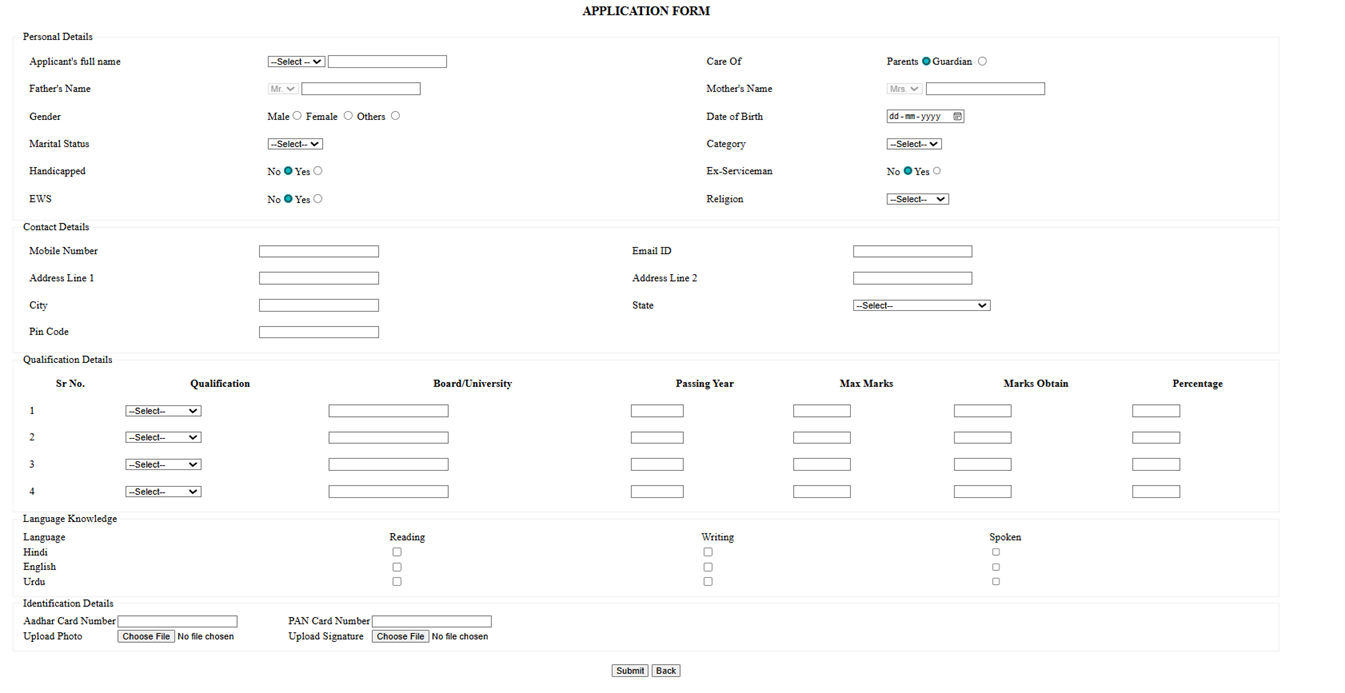
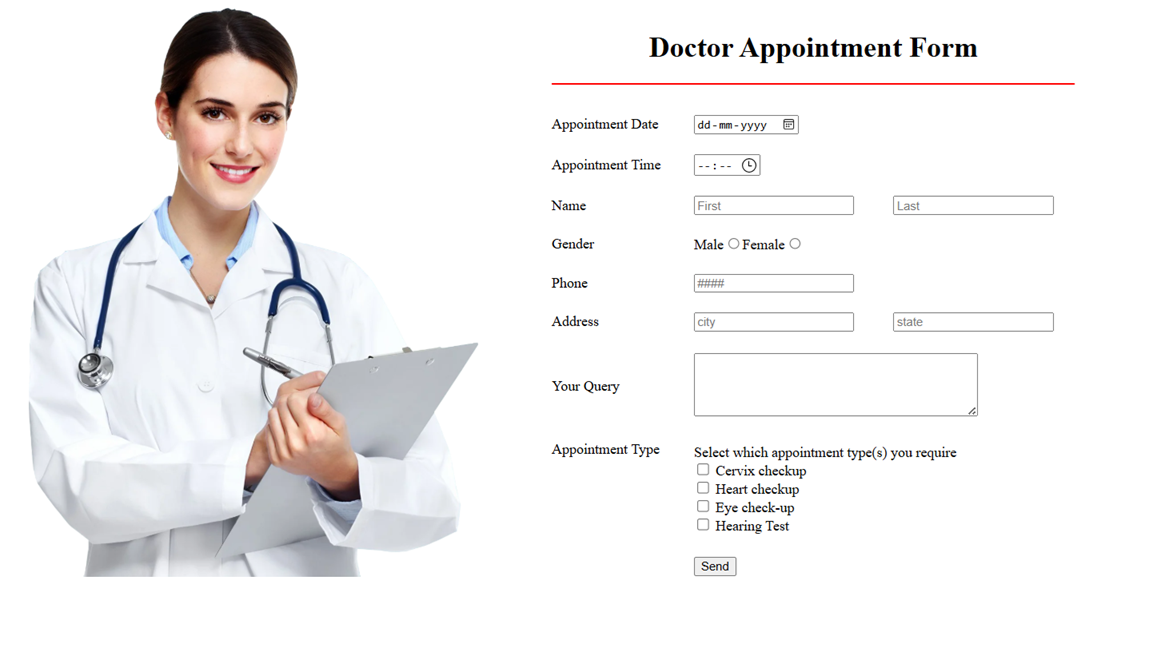
Class Activity MEAN

diff --git a/Sem 2/MEAN/act33/index.html b/Sem 2/MEAN/act33/index.html
@@ -1,0 +1,46 @@
+<html lang="en">
+<head>
+  <meta charset="UTF-8">
+  <meta name="viewport" content="width=device-width, initial-scale=1.0">
+  <title>Doctor Appoinment Form</title>
+</head>
+<body>
+  <form action="submit.php" method="post">
+    <h1>Doctor Appoinment Form</h1>
+    <label for="date">Appoinment Date:</label><br>
+    <input type="date" id="date" name="date" required><br><br>
+
+    <label for="time">Appoinment Time:</label><br>
+    <input type="time" id="time" name="time" required><br><br>
+
+    <label for="name">Name:</label><br>
+    <input type="text" id="name" name="name" placeholder="First Name" required>
+    <input type="text" name="lastname" id="lastname" placeholder="Last Name" required><br><br>
+
+    <label for="gender">Gender:</label><br>
+    <input type="radio" id="male" name="gender" value="male" required>
+    <label for="male">Male</label><br>
+    <input type="radio" id="female" name="gender" value="female" required>
+    <label for="female">Female</label><br><br>
+
+    <label for="address">Address:</label>
+    <input type="text" id="city" name="city" placeholder="City" required>
+    <input type="text" id="state" name="state" placeholder="State" required><br><br>
+
+    <label for="query">Query:</label><br>
+    <textarea id="query" name="query" placeholder="Enter your query here"></textarea><br><br>
+
+    <label for="type">Type of Appointment:      Select the type of appoinment</label><br>
+    <input type="checkbox" name="cc" id="cc">
+    <label for="cc">Cervix checkup</label><br>
+    <input type="checkbox" name="heart" id="heart">
+    <label for="heart">Heart checkup</label><br>
+    <input type="checkbox" name="eye" id="eye">
+    <label for="eye">Eye check-up</label><br>
+    <input type="checkbox" name="hearing" id="hearing">
+    <label for="hearing">Hearing Test</label><br><br>
+
+    <input type="submit" value="Submit">
+  </form>
+</body>
+</html>

diff --git a/Sem 2/MEAN/act32/index.html b/Sem 2/MEAN/act32/index.html
@@ -1,0 +1,65 @@
+<html lang="en">
+<head>
+  <meta charset="UTF-8">
+  <meta name="viewport" content="width=device-width, initial-scale=1.0">
+  <title>Time Table</title>
+  <style>
+    table{
+      text-align: center;
+    }
+  </style>
+</head>
+<body>
+  <center>
+    <h1>Class Time Table</h1>
+    <table border="1">
+      <tr>
+        <td>I<br>09:00 AM - 10:00 AM</td>
+        <td>II<br>10:00 AM - 11:00 AM</td>
+        <td>11:00 AM - 11:15 PM</td>
+        <td>III<br>11:15 PM - 12:15 PM</td>
+        <td>12:15 PM - 01:15 PM</td>
+        <td>IV<br>01:15 PM - 02:15 PM</td>
+        <td>V<br>02:15 PM - 03:15 PM</td>
+        <td>VI<br>03:15 PM - 03:30 PM</td>
+        <td>VII<br>03:30 PM - 04:30 PM</td>
+      </tr>
+      <tr>
+        <td>Monday</td>
+        <td>Eng</td>
+        <td rowspan="5">Interval</td>
+        <td>Mat</td>
+        <td rowspan="5">LUNCH</td>
+        <td>Che</td>
+        <td>LAB</td>
+        <td rowspan="5">Interval</td>
+        <td colspan="2">LAB</td>
+      </tr>
+      <tr>
+        <td>Wednesday</td>
+        <td>Mat</td>
+        <td>Phy</td>
+        <td>Eng</td>
+        <td>Che</td>
+        <td colspan="2">LIBRARY</td>
+      </tr>
+      <tr>
+        <td>Thursday</td>
+        <td>Phy</td>
+        <td>Eng</td>
+        <td>Che</td>
+        <td>LAB</td>
+        <td colspan="2">LAB</td>
+      </tr>
+      <tr>
+        <td>Friday</td>
+        <td>Phy</td>
+        <td>Eng</td>
+        <td>Che</td>
+        <td>LAB</td>
+        <td colspan="2">LAB</td>
+      </tr>
+    </table>
+  </center>
+</body>
+</html>

diff --git a/Sem 2/MEAN/activity/Activity Sheet - Full Stack Development with Python.html b/Sem 2/MEAN/activity/Activity Sheet - Full Stack Development with Python.html
@@ -48,6 +48,50 @@
           <td>9</td>
           <td>  <a href="a9.html">Activity-9</a></td>
         </tr>
+        <tr>
+          <td>10</td>
+          <td>  <a href="a10.html">Activity-10</a></td>
+        </tr>
+        <tr>
+          <td>11</td>
+          <td>  <a href="a11.html">Activity-11</a></td>
+        </tr>
+        <tr>
+          <td>12</td>
+          <td>  <a href="a12.html">Activity-12</a></td>
+        </tr>
+        <tr>
+          <td>13</td>
+          <td>  <a href="a13.html">Activity-13</a></td>
+        </tr>
+        <tr>
+          <td>14</td>
+          <td>  <a href="a14.html">Activity-14</a></td>
+        </tr>
+        <tr>
+          <td>15</td>
+          <td>  <a href="a15.html">Activity-15</a></td>
+        </tr>
+        <tr>
+          <td>16</td>
+          <td>  <a href="a16.html">Activity-16</a></td>
+        </tr>
+        <tr>
+          <td>17</td>
+          <td>  <a href="a17.html">Activity-17</a></td>
+        </tr>
+        <tr>
+          <td>18</td>
+          <td>  <a href="a18.html">Activity-18</a></td>
+        </tr>
+        <tr>
+          <td>19</td>
+          <td>  <a href="a19.html">Activity-19</a></td>
+        </tr>
+        <tr>
+          <td>20</td>
+          <td>  <a href="a20.html">Activity-20</a></td>
+        </tr>
       </table>
 
 

diff --git a/Sem 2/MEAN/activity/a12.HTML b/Sem 2/MEAN/activity/a12.HTML
@@ -1,0 +1,11 @@
+<!DOCTYPE html>
+<html lang="en" dir="ltr">
+  <head>
+    <meta charset="utf-8">
+    <title></title>
+  </head>
+  <body>
+  <b>Write JavaScript program to print the multiplication table. The number has to be entered through textbox. The table has to be printed in the same form with a border which is red in color.  </b>
+
+  </body>
+</html>

diff --git a/Sem 2/MEAN/activity/a14.html b/Sem 2/MEAN/activity/a14.html
@@ -5,7 +5,6 @@
     <title></title>
   </head>
   <body>
-  <img src="a10.png" alt="">
-
+<h1>Develop a web page using bootstrap to demonstrate the use of text color and background color</h1>
   </body>
 </html>

diff --git a/Sem 2/MEAN/activity/a20.html b/Sem 2/MEAN/activity/a20.html
@@ -5,7 +5,6 @@
     <title></title>
   </head>
   <body>
-  <img src="a10.png" alt="">
-
+<h1>Create a form to check whether a user is eligible to vote (age ≥ 18)</h1>
   </body>
 </html>

diff --git a/Sem 2/MEAN/activity/a18.html b/Sem 2/MEAN/activity/a18.html
@@ -5,7 +5,6 @@
     <title></title>
   </head>
   <body>
-  <img src="a10.png" alt="">
-
+<h1>Student Management System with Add, Search and display</h1>
   </body>
 </html>

diff --git a/Sem 2/MEAN/activity/a17.html b/Sem 2/MEAN/activity/a17.html
@@ -5,7 +5,6 @@
     <title></title>
   </head>
   <body>
-  <img src="a10.png" alt="">
-
+<h1>Student Management System with Add and Display</h1>
   </body>
 </html>

diff --git a/Sem 2/MEAN/activity/a16.html b/Sem 2/MEAN/activity/a16.html
@@ -5,7 +5,6 @@
     <title></title>
   </head>
   <body>
-  <img src="a10.png" alt="">
-
+<h1>Online Quiz Generator with Result Summary</h1>
   </body>
 </html>

diff --git a/Sem 2/MEAN/activity/a19.html b/Sem 2/MEAN/activity/a19.html
@@ -5,7 +5,6 @@
     <title></title>
   </head>
   <body>
-  <img src="a10.png" alt="">
-
+<h1>Registration Form Validation</h1>
   </body>
 </html>

diff --git a/Sem 2/MEAN/activity/a15.html b/Sem 2/MEAN/activity/a15.html
@@ -5,7 +5,6 @@
     <title></title>
   </head>
   <body>
-  <img src="a10.png" alt="">
-
+<h1>Online Quiz Generator</h1>
   </body>
 </html>

diff --git a/Sem 2/MEAN/activity/a11.html b/Sem 2/MEAN/activity/a11.html
@@ -5,7 +5,7 @@
     <title></title>
   </head>
   <body>
-  <img src="a10.png" alt="">
+  <img src="a11.png" alt="">
 
   </body>
 </html>
